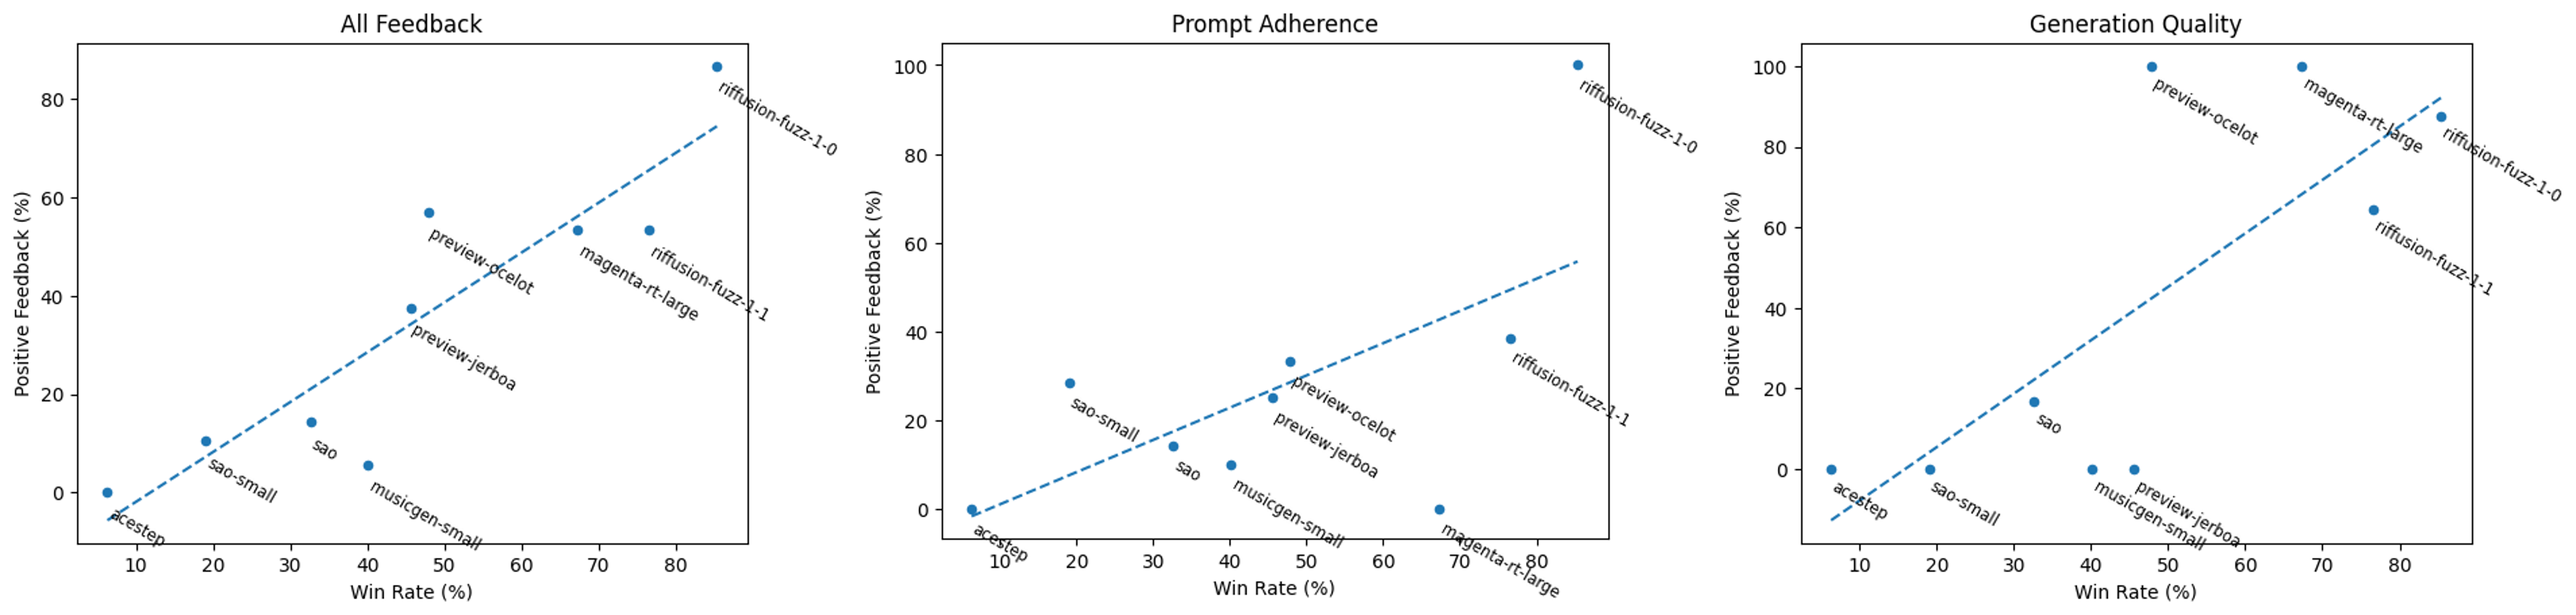
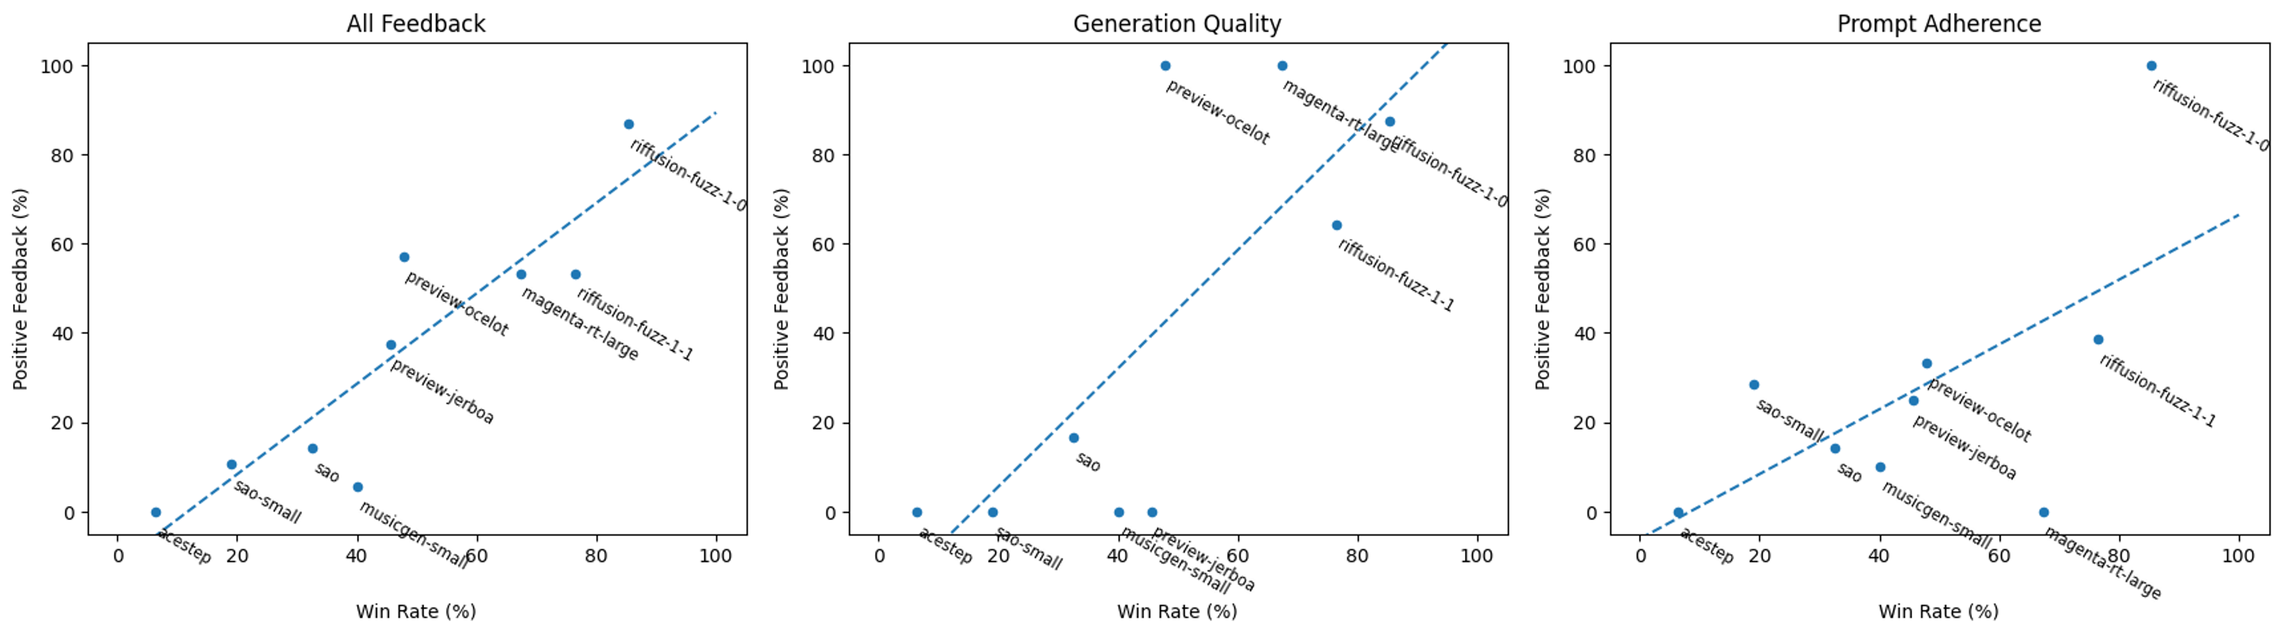
Update section 8

diff --git a/blog/posts/250918_MusicArena.md b/blog/posts/250918_MusicArena.md
@@ -294,7 +294,9 @@ We find that a majority of feedback (exactly 2 out of every 3) is **negative**, 
 | **Miscallaneous Feedback**  |      24 |           29.2 |
 | **Generation Quality** |      61 |           42.6 |
 
-Finally, we also group feedback by model and find that the overall rate of positive feedback correlates with Arena score. However, grouping these model feedbacks by category also yields some interesting discoveries, for instance, all feedback relating to prompt adherence for the Magenta RealTime model is negative, while all feedback relating to generation quality is positive, indicating that this system is good at creating high-quality generations, but fails to meet the prompting expectations of users. Prompt adherence generally does increase with higher win rate models, while generation quality feedback increases significantly for models with a win rate of over 50%.
+Finally, we also group feedback by model and find that the overall rate of positive feedback correlates with a model's win rate (Spearman's rho = 0.895, p = 0.001). Both prompt adherence (rho = 0.586, p = 0.097) and generation quality ( rho = 0.726, p = 0.027) also increase with higher win rate models, but generation quality also has a noticeable increase in positive feedback percentage once a model's win rate exceeds 50%. 
+
+Grouping these model feedbacks by category also yields some interesting discoveries, for instance, all feedback relating to prompt adherence for the Magenta RealTime model is negative, while all feedback relating to generation quality is positive, indicating that this system is good at creating high-quality generations, but fails to meet the prompting expectations of users. 
 
 ![Positive feedback rates by model](figures/250918_MusicArena_fig11.png)
 > **Figure 11: Plots of win rate vs positive feedback percentage for all models, also separated by different types of feedback**
